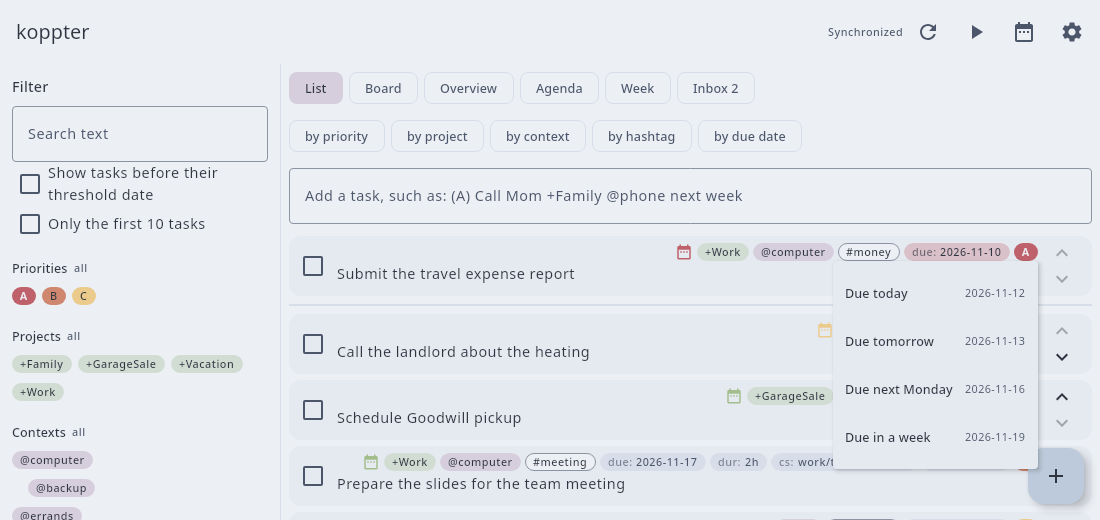
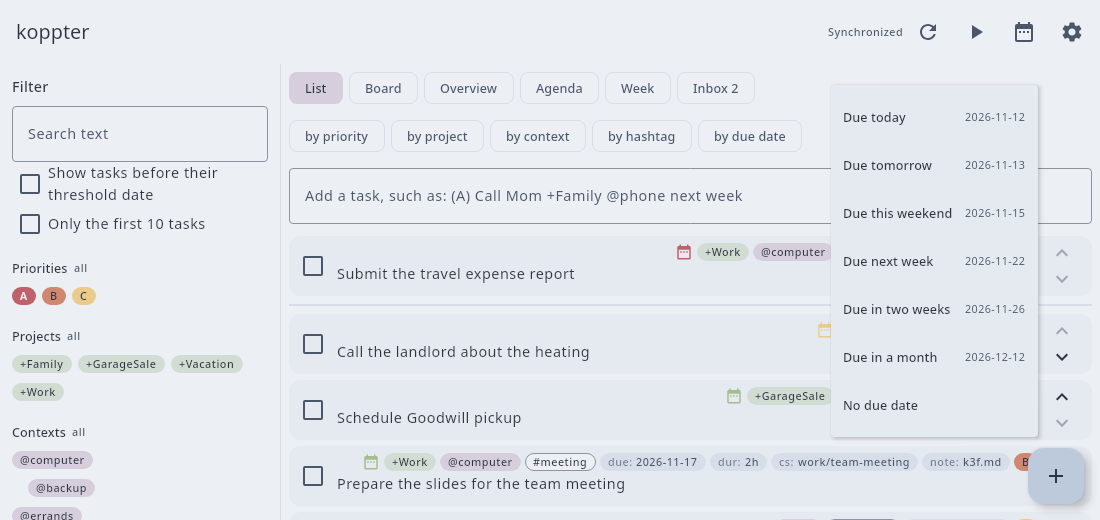
Offer more days for the due date and offer them in the edit dialog
The menu of a task offered today, tomorrow, the next Monday and a week from today, and a phone did not reach it for a task without a due date.
It now offers this weekend, next week, two weeks and a month as well and removes a due date, and the edit dialog shows the same days as chips.

diff --git a/app/src/desktopTest/kotlin/io/github/koppor/koppter/ui/AppTest.kt b/app/src/desktopTest/kotlin/io/github/koppor/koppter/ui/AppTest.kt
@@ -134,17 +134,48 @@ class AppTest {
         onNodeWithTag("due-menu").assertDoesNotExist()
         // The label of the due date opens the menu as well: the first task of the list is the one that is due on 2026-11-20.
         onAllNodesWithTag("label-due", useUnmergedTree = true)[0].performClick()
-        onNodeWithTag("due-2026-11-16").performClick()
-        assertEquals("(A) Thank Mom @phone due:2026-11-16", storage.text.lines()[2])
+        // This weekend ends on Sunday.
+        onNodeWithTag("due-2026-11-15").performClick()
+        assertEquals("(A) Thank Mom @phone due:2026-11-15", storage.text.lines()[2])
+        // The due date is removed with the menu as well; a task without one is not offered that.
+        onAllNodesWithTag("label-due", useUnmergedTree = true)[0].performClick()
+        onNodeWithTag("due-none").performClick()
+        assertEquals("(A) Thank Mom @phone", storage.text.lines()[2])
+        onNodeWithText("Thank Mom").performMouseInput { rightClick() }
+        onNodeWithTag("due-2026-12-12").assertExists()
+        onNodeWithTag("due-none").assertDoesNotExist()
+    }
+
+    // [utest->dsn~due-chips~1]
+    @Test
+    fun theEditDialogOffersTheDaysOfTheMenuForTheDueDate() = runComposeUiTest {
+        start()
+        openTask("Post signs")
+        onNodeWithTag("edit-due-2026-11-22").performScrollTo().performClick()
+        onNodeWithTag("edit-due").assertTextContains("2026-11-22")
+        onNodeWithTag("edit-due-2026-11-22").assertIsSelected()
+        onNodeWithTag("edit-line").assertTextEquals("Post signs +GarageSale due:2026-11-22")
+        // A second click on the chosen day takes the due date away again.
+        onNodeWithTag("edit-due-2026-11-22").performClick()
+        onNodeWithTag("edit-line").assertTextEquals("Post signs +GarageSale")
+        onNodeWithTag("edit-due-2026-11-26").performClick()
+        onNodeWithTag("edit-save").performScrollTo().performClick()
+        assertEquals("Post signs +GarageSale due:2026-11-26", storage.text.lines()[1])
     }
 
     // [utest->dsn~due-menu~1]
     @Test
     fun theMenuOffersEachDayOnce() {
         // 2026-11-12 is a Thursday.
-        assertEquals(listOf("2026-11-12", "2026-11-13", "2026-11-16", "2026-11-19"), dueChoices(LocalDate(2026, 11, 12)).map { it.second.toString() })
-        assertEquals(listOf("Due today", "Due tomorrow", "Due in a week"), dueChoices(LocalDate(2026, 11, 15)).map { it.first })
-        assertEquals(listOf("Due today", "Due tomorrow", "Due next Monday"), dueChoices(LocalDate(2026, 11, 16)).map { it.first })
+        assertEquals(
+            listOf("2026-11-12", "2026-11-13", "2026-11-15", "2026-11-22", "2026-11-26", "2026-12-12"),
+            dueChoices(LocalDate(2026, 11, 12)).map { it.second.toString() },
+        )
+        // On a Sunday, this weekend is today, and on a Saturday, it is tomorrow.
+        assertEquals(listOf("today", "tomorrow", "next week", "in two weeks", "in a month"), dueChoices(LocalDate(2026, 11, 15)).map { it.first })
+        assertEquals(listOf("today", "tomorrow", "next week", "in two weeks", "in a month"), dueChoices(LocalDate(2026, 11, 14)).map { it.first })
+        // The end of January has no day a month later.
+        assertEquals(LocalDate(2027, 2, 28), dueChoices(LocalDate(2027, 1, 31)).last().second)
     }
 
     // [utest->dsn~quick-add~1]

diff --git a/app/src/commonMain/kotlin/io/github/koppor/koppter/ui/TaskList.kt b/app/src/commonMain/kotlin/io/github/koppor/koppter/ui/TaskList.kt
@@ -323,13 +323,18 @@ fun TaskCard(entry: Entry, today: LocalDate, onToggle: () -> Unit, onOpen: () ->
     }
 }
 
-/** The days to which a due date is moved from the list, each with what the menu calls it. */
+/**
+ * The days that are offered for a due date, each with what it is called; each day once, under its first name.
+ * A weekend and a week end on their Sunday, as in the dates that are typed in words.
+ */
 internal fun dueChoices(today: LocalDate): List<Pair<String, LocalDate>> = listOf(
-    "Due today" to today,
-    "Due tomorrow" to today.plus(DatePeriod(days = 1)),
-    "Due next Monday" to today.plus(DatePeriod(days = 8 - today.dayOfWeek.isoDayNumber)),
-    "Due in a week" to today.plus(DatePeriod(days = 7)),
-    // On a Sunday, next Monday is tomorrow, and on a Monday, it is in a week.
+    "today" to today,
+    "tomorrow" to today.plus(DatePeriod(days = 1)),
+    "this weekend" to today.plus(DatePeriod(days = 7 - today.dayOfWeek.isoDayNumber)),
+    "next week" to today.plus(DatePeriod(days = 14 - today.dayOfWeek.isoDayNumber)),
+    "in two weeks" to today.plus(DatePeriod(days = 14)),
+    "in a month" to today.plus(DatePeriod(months = 1)),
+    // On a Sunday, this weekend is today, and on a Saturday, it is tomorrow.
 ).distinctBy { it.second }
 
 /** The menu that moves the due date of a task. */
@@ -340,13 +345,23 @@ private fun DueMenu(expanded: Boolean, entry: Entry, today: LocalDate, onDismiss
     DropdownMenu(expanded, onDismissRequest = onDismiss, modifier = Modifier.testTag("due-menu")) {
         for ((title, date) in dueChoices(today)) {
             DropdownMenuItem(
-                text = { Text(title) },
+                text = { Text("Due $title") },
                 trailingIcon = { Text(date.toString(), style = MaterialTheme.typography.bodySmall, color = MaterialTheme.colorScheme.onSurfaceVariant) },
                 onClick = {
                     onDismiss()
                     setDue(entry, date)
                 },
                 modifier = Modifier.testTag("due-$date"),
+            )
+        }
+        if (entry.task.due != null) {
+            DropdownMenuItem(
+                text = { Text("No due date") },
+                onClick = {
+                    onDismiss()
+                    setDue(entry, null)
+                },
+                modifier = Modifier.testTag("due-none"),
             )
         }
     }

diff --git a/app/src/commonMain/kotlin/io/github/koppor/koppter/ui/EditDialog.kt b/app/src/commonMain/kotlin/io/github/koppor/koppter/ui/EditDialog.kt
@@ -86,6 +86,7 @@ fun EditDialog(
     knownProjects: List<String>,
     knownContexts: List<String>,
     knownHashtags: List<String>,
+    today: LocalDate,
     onSave: (Task, note: String?) -> Unit,
     onDelete: () -> Unit,
     onDismiss: () -> Unit,
@@ -177,6 +178,19 @@ fun EditDialog(
                     }
                 }
 
+                // [impl->dsn~due-chips~1]
+                // The days of the menu of a task card, which a device without a mouse does not open for a task without due date.
+                FlowRow(horizontalArrangement = Arrangement.spacedBy(6.dp)) {
+                    Text("Due", style = MaterialTheme.typography.labelLarge, modifier = Modifier.align(Alignment.CenterVertically))
+                    for ((title, date) in dueChoices(today)) {
+                        FilterChip(
+                            selected = due.trim() == date.toString(),
+                            onClick = { due = if (due.trim() == date.toString()) "" else date.toString() },
+                            label = { Text(title) },
+                            modifier = Modifier.testTag("edit-due-$date"),
+                        )
+                    }
+                }
                 // A flow row: three fields side by side on the desktop, wrapped on a phone.
                 FlowRow(horizontalArrangement = Arrangement.spacedBy(8.dp), verticalArrangement = Arrangement.spacedBy(10.dp)) {
                     val field = Modifier.width(165.dp)

diff --git a/app/src/commonMain/kotlin/io/github/koppor/koppter/ui/TodoController.kt b/app/src/commonMain/kotlin/io/github/koppor/koppter/ui/TodoController.kt
@@ -540,9 +540,9 @@ class TodoController(
         write(new, if (task == null) "Move task: ${entry.task.description}" else "Move task to ${to.title}: ${task.description}")
     }
 
-    /** Moves the due date of the task to the given day. */
+    /** Moves the due date of the task to the given day; without a day, the task has no due date anymore. */
     // [impl->dsn~due-menu~1]
-    fun setDue(entry: Entry, date: LocalDate) = replace(entry, entry.task.withTag(Task.DUE, date.toString()))
+    fun setDue(entry: Entry, date: LocalDate?) = replace(entry, entry.task.withTag(Task.DUE, date?.toString()))
 
     /** Puts the task before or behind another one of the list: see [TodoFile.moveTo]. */
     // [impl->dsn~list-drag~1]

diff --git a/app/src/commonMain/kotlin/io/github/koppor/koppter/ui/Labels.kt b/app/src/commonMain/kotlin/io/github/koppor/koppter/ui/Labels.kt
@@ -68,7 +68,7 @@ val LocalShowContext = staticCompositionLocalOf<(String) -> Unit> { {} }
 val LocalShowProject = staticCompositionLocalOf<(String) -> Unit> { {} }
 
 /** Sets the due date of a task of the list, as the menu of a task card does. */
-val LocalSetDue = staticCompositionLocalOf<(Entry, LocalDate) -> Unit> { { _, _ -> } }
+val LocalSetDue = staticCompositionLocalOf<(Entry, LocalDate?) -> Unit> { { _, _ -> } }
 
 // The address ends before a mark that ends a sentence or closes a bracket around it.
 private val WEB_ADDRESS = Regex("https?://\\S*[^\\s.,;:!?)\\]]")

diff --git a/app/src/commonMain/kotlin/io/github/koppor/koppter/ui/App.kt b/app/src/commonMain/kotlin/io/github/koppor/koppter/ui/App.kt
@@ -336,6 +336,7 @@ private fun MainScreen(
             knownProjects = controller.projects,
             knownContexts = controller.contexts,
             knownHashtags = controller.hashtags,
+            today = controller.today(),
             onSave = { task, note ->
                 if (entry == null) controller.add(task, note) else controller.replace(entry, task, note)
                 editing = null

diff --git a/docs/requirements/ui.md b/docs/requirements/ui.md
@@ -104,7 +104,8 @@ Needs: dsn
 ### Moving the due date
 `req~move-due-date~1`
 
-The user moves the due date of a task without opening the task: to today, tomorrow, the next Monday or the day a week from today.
+The user moves the due date of a task to a day nearby with one click: today, tomorrow, this weekend, next week, in two weeks or in a month.
+In the list, this needs no opening of the task.
 
 Covers:
 
@@ -379,9 +380,24 @@ Needs: impl, utest
 ### Menu of the due date
 `dsn~due-menu~1`
 
-A click with the secondary mouse button on a task card, or a click on the label of its due date, opens a menu with the days of `dueChoices`: today, tomorrow, the next Monday and the day a week from today, each day once.
+A click with the secondary mouse button on a task card, or a click on the label of its due date, opens a menu with the days of `dueChoices`: today, tomorrow, this weekend, next week, in two weeks and in a month, each day once.
+A weekend and a week end on their Sunday, as in the dates that are typed in words.
 Choosing a day calls `TodoController.setDue`, which sets the `due:` tag and leaves the rest of the line as it is.
+For a task with a due date, the menu ends with *No due date*, which removes the tag.
 The cards of the board and of the agenda are the same `TaskCard` and have the menu as well.
+
+Covers:
+
+* `req~move-due-date~1`
+
+Needs: impl, utest
+
+### Days for the due date in the edit dialog
+`dsn~due-chips~1`
+
+Above its date fields, `EditDialog` shows the days of `dueChoices` as chips.
+A click on a chip writes its day into the field of the due date, and a click on the chip of the day that the field holds empties the field.
+A device without a mouse thereby reaches these days also for a task without due date, which has no label that opens the menu.
 
 Covers:
 

diff --git a/README.md b/README.md
@@ -296,7 +296,9 @@ A line shows where a dragged task would be put.
 * If the task and the one it is put next to are due on different days, it takes the priority and the due date decides its place.
 * No task crosses the line below the overdue tasks: the due date decides on which side a task stands.
 
-A click with the right mouse button on a task, or a click on the label of its due date, opens a menu that moves the due date to today, tomorrow, the next Monday or the day a week from today.
+A click with the right mouse button on a task, or a click on the label of its due date, opens a menu that moves the due date to today, tomorrow, this weekend, next week, in two weeks or in a month, or removes it.
+The edit dialog offers the same days as chips above the due date, which is the way to them on a phone for a task without a due date.
+A weekend and a week end on their Sunday.
 An overdue task that is moved this way leaves the upper part of the list.
 
 ![Menu that moves the due date of a task](docs/screenshots/due-menu.png)

diff --git a/CHANGELOG.md b/CHANGELOG.md
@@ -17,7 +17,7 @@ and this project adheres to [Calendar Versioning](https://calver.org/) with the 
 - The line that adds a task completes a project, a context or a hashtag while it is typed: Tab takes the first known name offered.
 - An address of the web in the text of a task is a link that opens in the browser; a long address is cut, and the whole one appears when the pointer of the mouse rests on it.
 - The list is divided into groups with headings by priority, project, context, hashtag or due date range, with the switches below the views.
-- A click with the right mouse button on a task, or a click on the label of its due date, opens a menu that moves the due date to today, tomorrow, the next Monday or the day a week from today.
+- A click with the right mouse button on a task, or a click on the label of its due date, opens a menu that moves the due date to today, tomorrow, this weekend, next week, in two weeks or in a month, or removes it; the edit dialog offers the same days as chips.
 
 ### Changed
 
